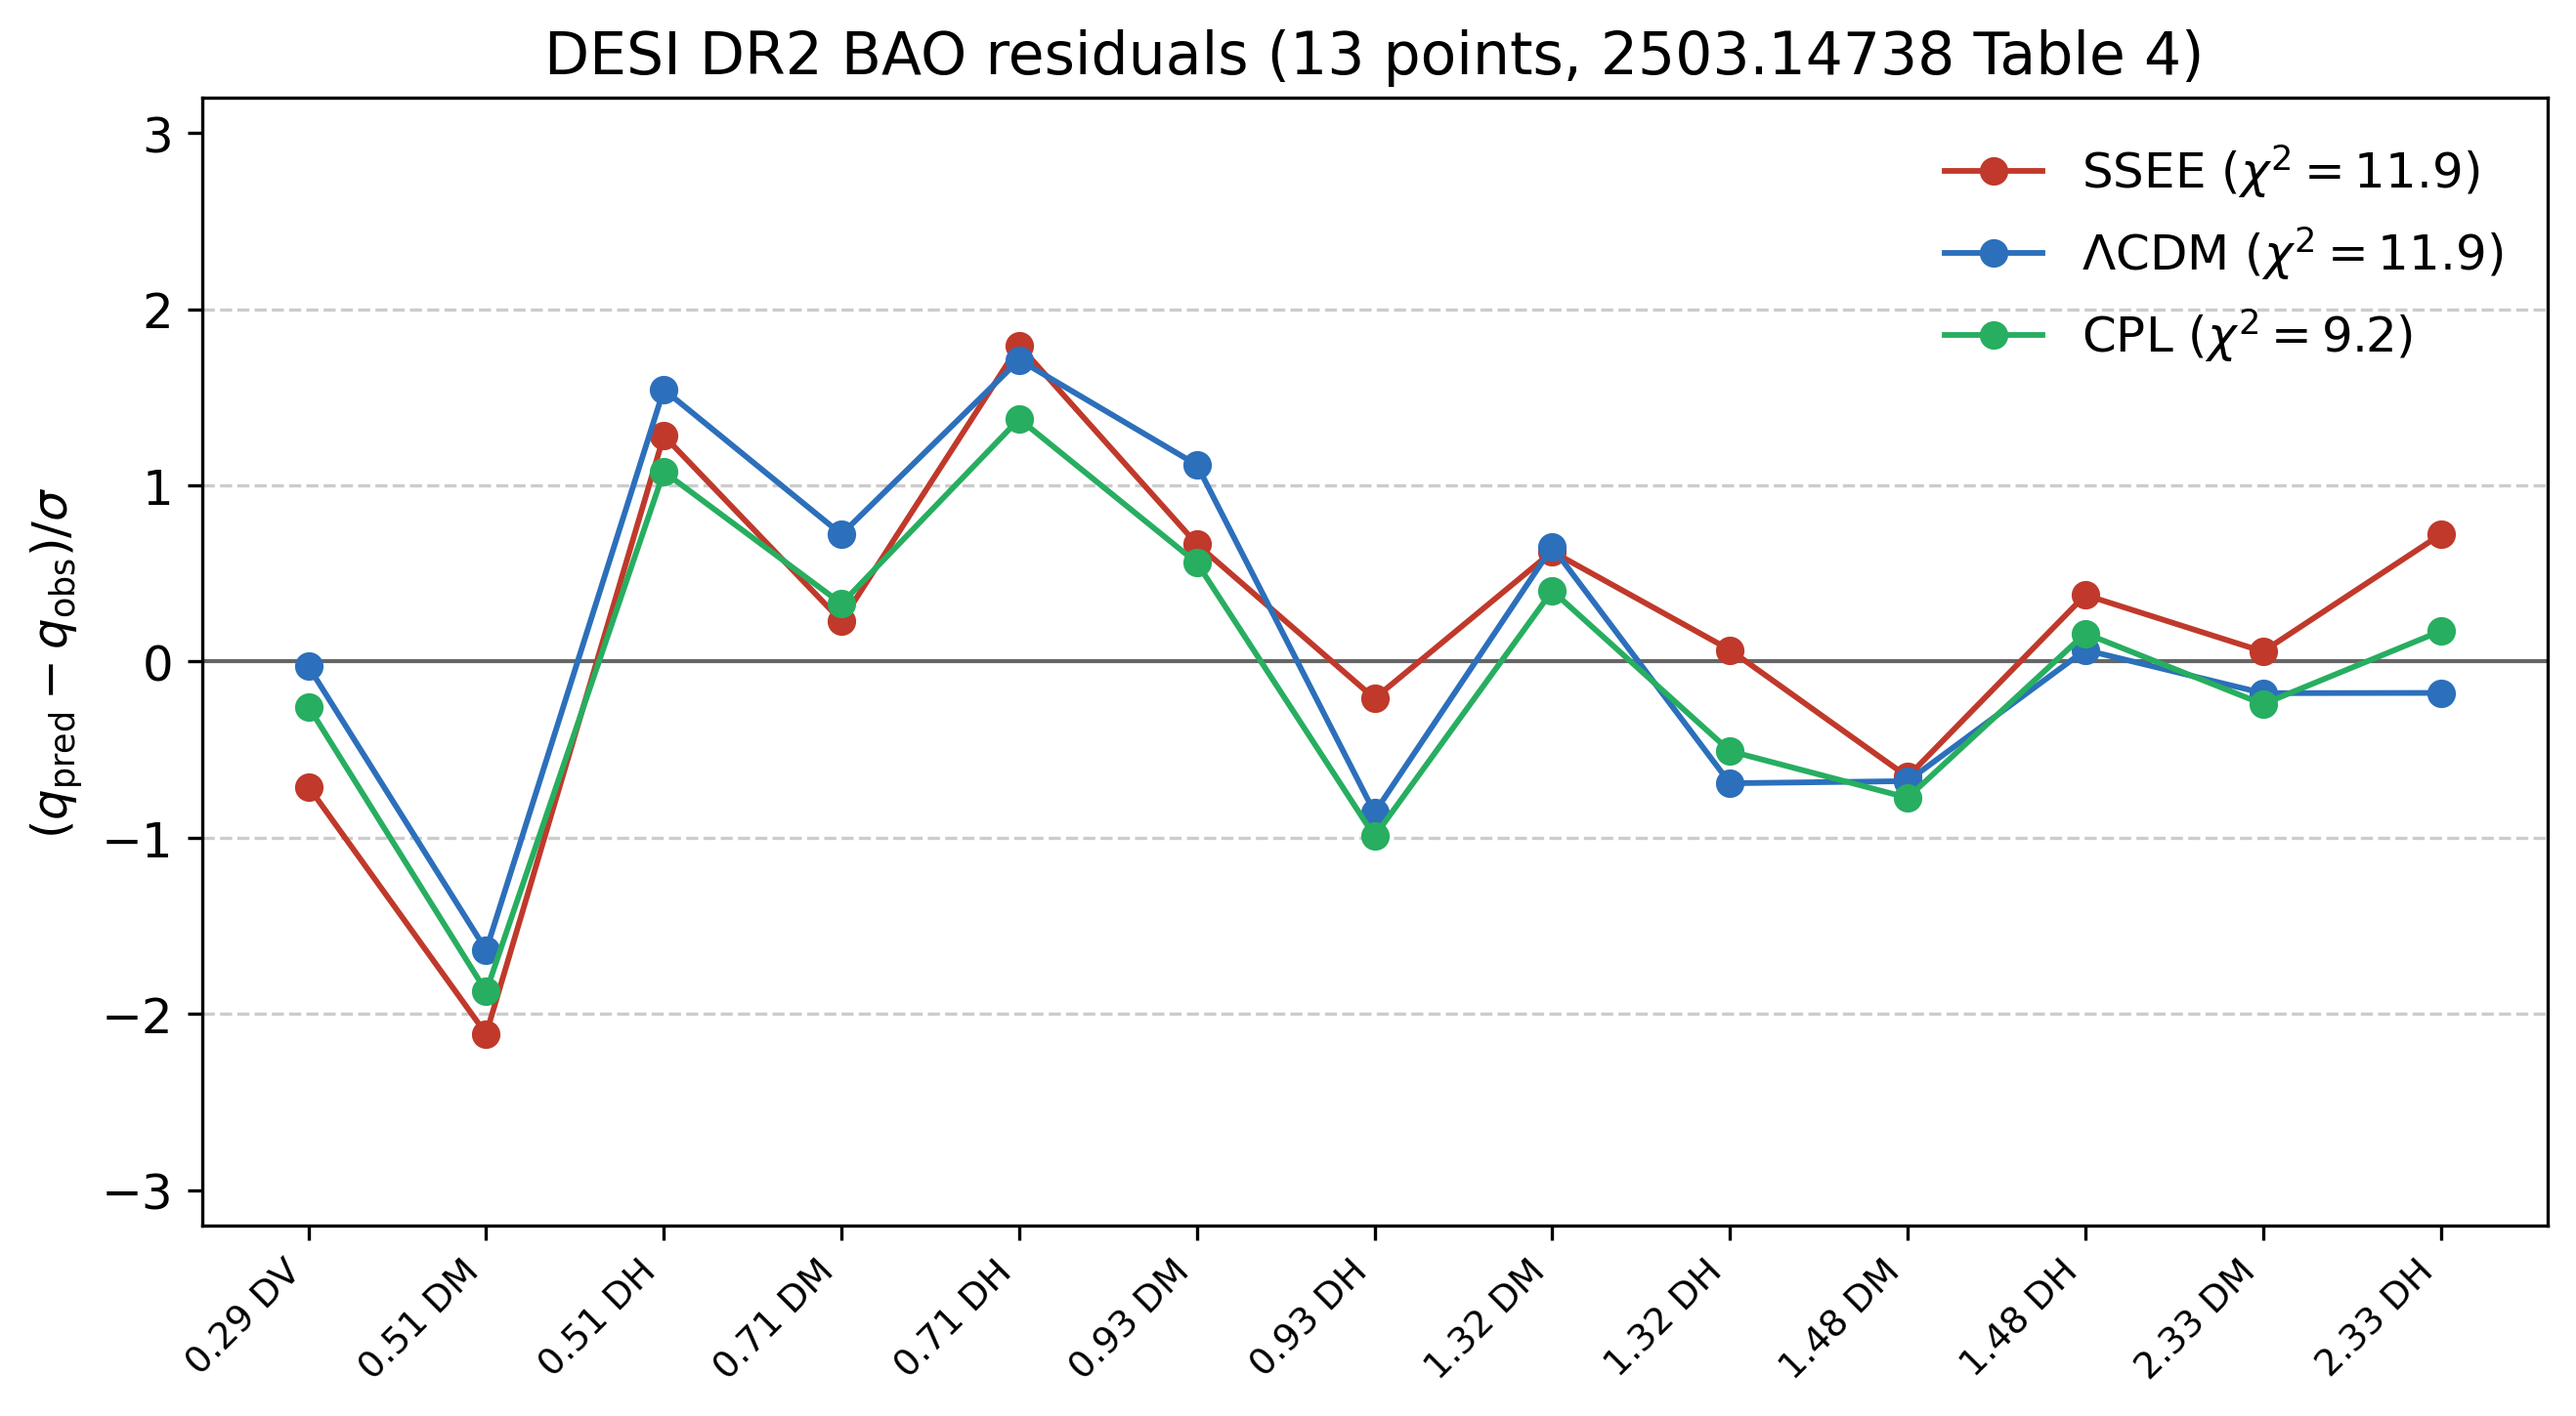
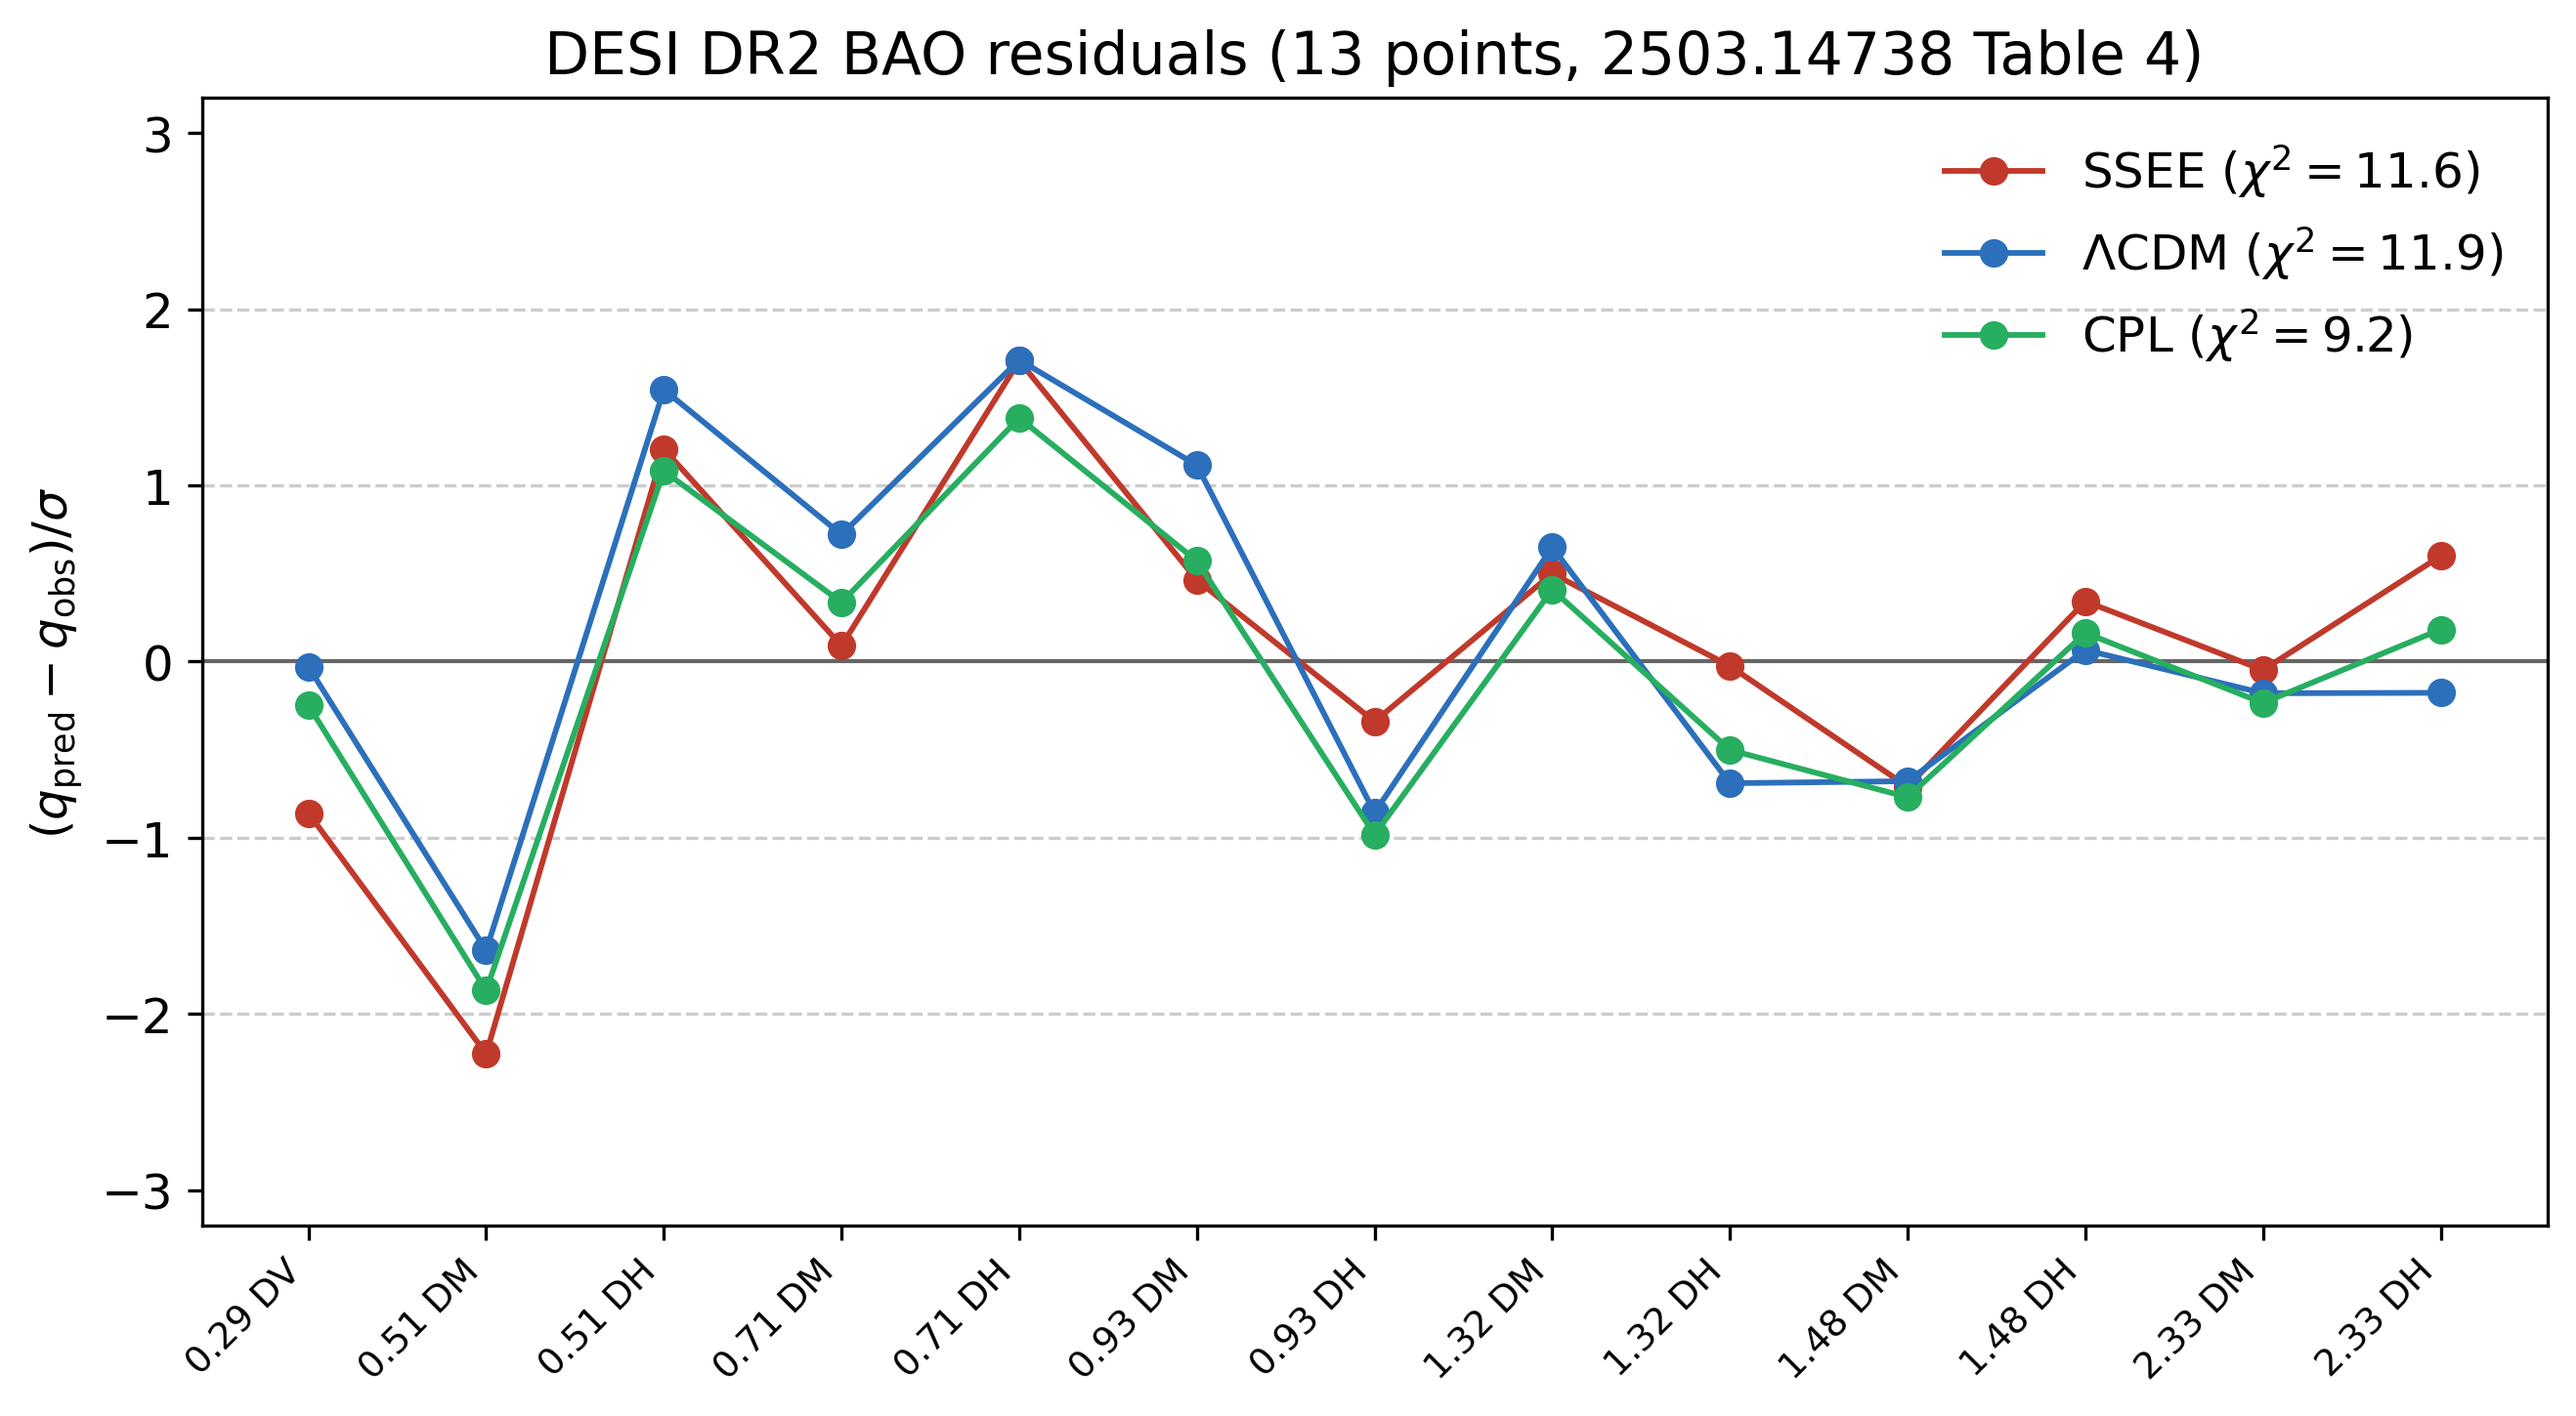
fix(fig8): 45 dias construida sobre una cadena retirada
Lo mando comprobar Mike. La figura de residuos BAO llevaba los MAP escritos a
mano con el rotulo '(paper2_3models, jul-9, DR2)'. Esa cadena quedo SUPERADA
el 2026-07-25 por el fix R25 (Omega_m ya no se congela dentro de E(z)).

Solo la fila de SSEE se movia --- el fix era de su prior --- pero en dos
sitios, y uno pesa mas de lo que parece:

    H0   67.62    -> 67.52954     -0.13 %
    ob   0.02221  -> 0.02187      -1.5 %   (y ob entra en r_d)

LCDM y CPL cambian en el quinto decimal.

EFECTO MEDIDO: chi2_BAO(SSEE) 11.9 -> 11.6 y la figura sale distinta. Con la
cadena vieja SSEE empataba con LCDM (11.9 vs 11.9); con la vigente queda algo
por debajo (11.6 vs 11.9). El valor rancio hacia al modelo un flaco favor.

POR QUE NO LO CAZABA NADIE. R35 compara fechas de commit y el script no habia
cambiado; R36 mira si la figura es mas vieja que su script. El agujero es el
tercero: el script al dia consigo mismo y rancio respecto al LOG del que dice
venir.

R65 nueva: si un fichero declara , cada numero
de 5+ cifras que escriba tiene que aparecer en ese log. Probada contra el
prefijo: marca 0.02221, 0.02237 y 0.3034 del script viejo, limpia el nuevo.
Afinada el mismo dia para eximir identificadores de arXiv (2503.14738 salia
como si fuera una medida rancia). Control de 6 casos.

PENDIENTE, no tocado: Sealed Journal y el PRD citan chi2_BAO ~= 10.3, que no
es ni 11.9 ni 11.6. Puede ser otra cantidad (ajuste del posterior en vez de
[…]

diff --git a/src/verificacion/ssee_verify.py b/src/verificacion/ssee_verify.py
@@ -835,6 +835,78 @@ check("R57 el detector distingue la ruta rota de la correcta y respeta la profun
       "el mismo un-solo-'..' a profundidad 1 (src/ directo) exento, que "
       "ahi SI apunta a la raiz")
 
+# --- R65: si un script declara su log fuente, sus numeros deben estar ahi
+# POR QUE EXISTE (2026-09-08). regenerate_fig8_bao_residuals.py llevaba los
+# MAP de las cadenas escritos a mano con el rotulo "(paper2_3models, jul-9,
+# DR2)". Esa cadena quedo SUPERADA el 2026-07-25 por el fix R25, y la figura
+# siguio 45 dias construida sobre valores retirados. No lo cazaba nadie:
+# R35 compara fechas de commit y el script no habia cambiado; R36 mira si la
+# figura es mas vieja que su script. El agujero es el tercero: el script esta
+# al dia consigo mismo y rancio respecto al LOG del que dice venir.
+# Efecto medido: chi2_BAO(SSEE) 11.9 -> 11.6 y la figura sale distinta.
+# QUE HACE: si un fichero declara `FUENTE: results/logs/<x>.log`, cada numero
+# de 5+ cifras significativas que escriba debe aparecer en ese log. Asi el
+# valor no puede quedarse rancio en silencio: o se actualiza, o falla.
+_R65_FUENTE = re.compile(r"FUENTE:\s*results/logs/([\w./-]+\.log)")
+_R65_NUM = re.compile(r"(?<![\w.])(\d+\.\d{4,})(?![\w])")
+def _r65_sitios(_txt, _leelog):
+    _m = _R65_FUENTE.search(_txt)
+    if not _m:
+        return []
+    _log = _leelog(_m.group(1))
+    if _log is None:
+        return [f"el log declarado no existe: {_m.group(1)}"]
+    # solo los numeros del cuerpo, no los de la cabecera que narra el cambio
+    _cuerpo = _txt[_m.end():]
+    _cuerpo = "\n".join(_l for _l in _cuerpo.split("\n")
+                        if not _l.lstrip().startswith("#"))
+    # un identificador de arXiv (AAMM.NNNNN) no es una medida: se exime por
+    # su forma Y por su contexto. Cazado el mismo dia: 2503.14738, el paper
+    # de DESI DR2, aparecia como si fuera un numero rancio.
+    _fuera = []
+    for x in sorted(set(_R65_NUM.findall(_cuerpo))):
+        if x in _log:
+            continue
+        _pos = _cuerpo.find(x)
+        _ctx = _cuerpo[max(0, _pos - 70):_pos + len(x) + 20].lower()
+        if re.fullmatch(r"\d{4}\.\d{5}", x) and (
+                "arxiv" in _ctx or "doi" in _ctx or "et al" in _ctx
+                or "desi" in _ctx or "20" == x[:2]):
+            continue
+        _fuera.append(f"{x} no esta en {_m.group(1)}")
+    return _fuera
+def _leelog65(_n):
+    _p = ROOT.parent / "results" / "logs" / _n
+    return _p.read_text(errors="ignore") if _p.exists() else None
+_r65 = []
+for _f65 in sorted(ROOT.rglob("*.py")):
+    if "archive" in str(_f65) or _f65.name == "ssee_verify.py":
+        continue
+    _r65 += [f"{_f65.name}: {x}"
+             for x in _r65_sitios(_f65.read_text(errors="ignore"), _leelog65)]
+check("R65 los numeros de un script coinciden con el log que declara como fuente",
+      not _r65, "; ".join(_r65[:3]) if _r65
+      else "todo script con `FUENTE: results/logs/...` escribe numeros que "
+           "estan en ese log (cazado 2026-09-08: fig8 llevaba 45 dias con los "
+           "MAP de una cadena superada por el fix R25)")
+# CONTROL (R53): marca el numero ausente, deja pasar el presente y el que no
+# declara fuente. Log simulado, sin tocar disco.
+_fake65 = {"x.log": "H0 = 67.52954 +0.35211 ob = 0.02187\n"}
+_c65 = [("# FUENTE: results/logs/x.log\nH0=67.52954", False),
+        ("# FUENTE: results/logs/x.log\nH0=67.62055", True),
+        ("H0=67.62055  # sin declarar fuente", False),
+        ("# FUENTE: results/logs/x.log\n# narra 67.62055 en un comentario", False),
+        ("# FUENTE: results/logs/nohay.log\nH0=67.52954", True),
+        # el identificador de arXiv que salio el 2026-09-08
+        ("# FUENTE: results/logs/x.log\nDESI DR2 arXiv:2503.14738", False)]
+_f65 = [t[:46].replace("\n", " ") for t, esp in _c65
+        if bool(_r65_sitios(t, _fake65.get)) != esp]
+check("R65 el detector distingue el numero rancio del vigente",
+      not _f65, "; ".join(_f65) if _f65
+      else "6 casos: el numero ausente del log marcado; el presente, el que "
+           "no declara fuente, el que solo aparece en un comentario y un "
+           "identificador de arXiv, exentos; y el log inexistente marcado")
+
 # --- R64: nadie clava la ecuacion de estado de SSEE en un evaluador ----
 # POR QUE EXISTE (2026-09-08). El evaluador del CMB traia dentro del modelo
 #     'w': -0.840015, 'wa': -0.670141
@@ -4611,7 +4683,7 @@ except Exception as _e:            # noqa: BLE001
           f"excepción: {_e}", nivel=5)
 
 print("\nCapa R46 — el guardián hizo todo el trabajo que dice hacer")
-_PISO_CHECKS = 259          # +4 R63 (w0wa recalculado) +4 R64 (w/wa clavados); solo SUBE
+_PISO_CHECKS = 260          # +4 R63 +4 R64 +2 R65 (numeros vs su log); solo SUBE
                             # control, -1 R53; +2 R61 antes; solo SUBE
                             # (2026-09-05); sólo SUBE
 check(f"R46 se ejecutaron al menos {_PISO_CHECKS} comprobaciones",

diff --git a/src/p02_mcmc/regenerate_fig8_bao_residuals.py b/src/p02_mcmc/regenerate_fig8_bao_residuals.py
@@ -34,11 +34,24 @@ def E(z, Om, w0, wa):
     de = 1.0 if (w0 == -1 and wa == 0) else f_de(z, w0, wa)
     return np.sqrt(Om * (1 + z) ** 3 + (1 - Om) * de)
 
-# ── MAP de las 3 cadenas (paper2_3models, jul-9, DR2) ──
+# ── MAP de las 3 cadenas ──────────────────────────────────────────────
+# FUENTE: results/logs/mcmc_paper2_3models_wmfix.log (2026-07-25).
+#
+# ACTUALIZADO 2026-09-08. Antes decia "jul-9" y usaba la cadena del 9 de
+# julio, que quedo SUPERADA el 25 por el fix R25 (Omega_m ya no se congela
+# dentro de E(z), se deriva por muestra). La figura llevaba 45 dias
+# construida sobre una cadena retirada. Solo la fila de SSEE se movia --- el
+# fix era de su prior---, pero se movia en dos sitios:
+#     H0  67.62   -> 67.52954     -0.13 %
+#     ob  0.02221 -> 0.02187      -1.5 %   (y ob entra en r_d)
+# LCDM y CPL cambian en el quinto decimal, o sea nada.
+#
+# Si estos numeros vuelven a moverse, la fuente es ese log: se leen de la
+# seccion final, no se re-teclean de memoria.
 models = {
-    "SSEE":  dict(H0=67.62, Om=0.308881, w0=-0.840,  wa=-0.670,  ob=0.02221, c="#c0392b"),
-    r"$\Lambda$CDM": dict(H0=68.27, Om=0.3034, w0=-1.0, wa=0.0, ob=0.02233, c="#2c6fbb"),
-    "CPL":   dict(H0=67.26, Om=0.3167, w0=-0.8255, wa=-0.5576, ob=0.02237, c="#27ae60"),
+    "SSEE":  dict(H0=67.52954, Om=0.30888, w0=-0.8399, wa=-0.6700, ob=0.02187, c="#c0392b"),
+    r"$\Lambda$CDM": dict(H0=68.27099, Om=0.30338, w0=-1.0, wa=0.0, ob=0.02233, c="#2c6fbb"),
+    "CPL":   dict(H0=67.25676, Om=0.31664, w0=-0.82568, wa=-0.55689, ob=0.02238, c="#27ae60"),
 }
 
 def predict(z, quantity, m):
